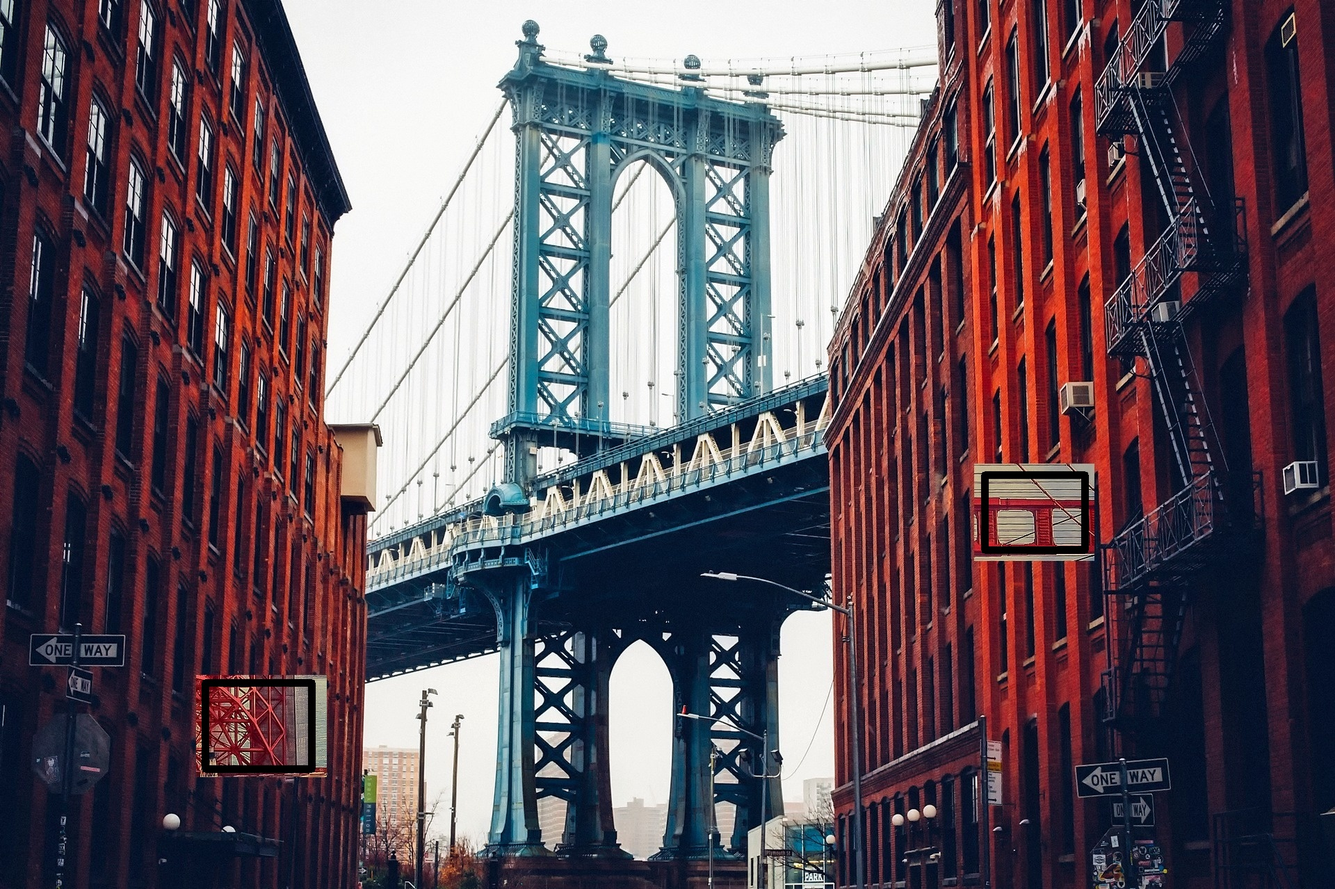
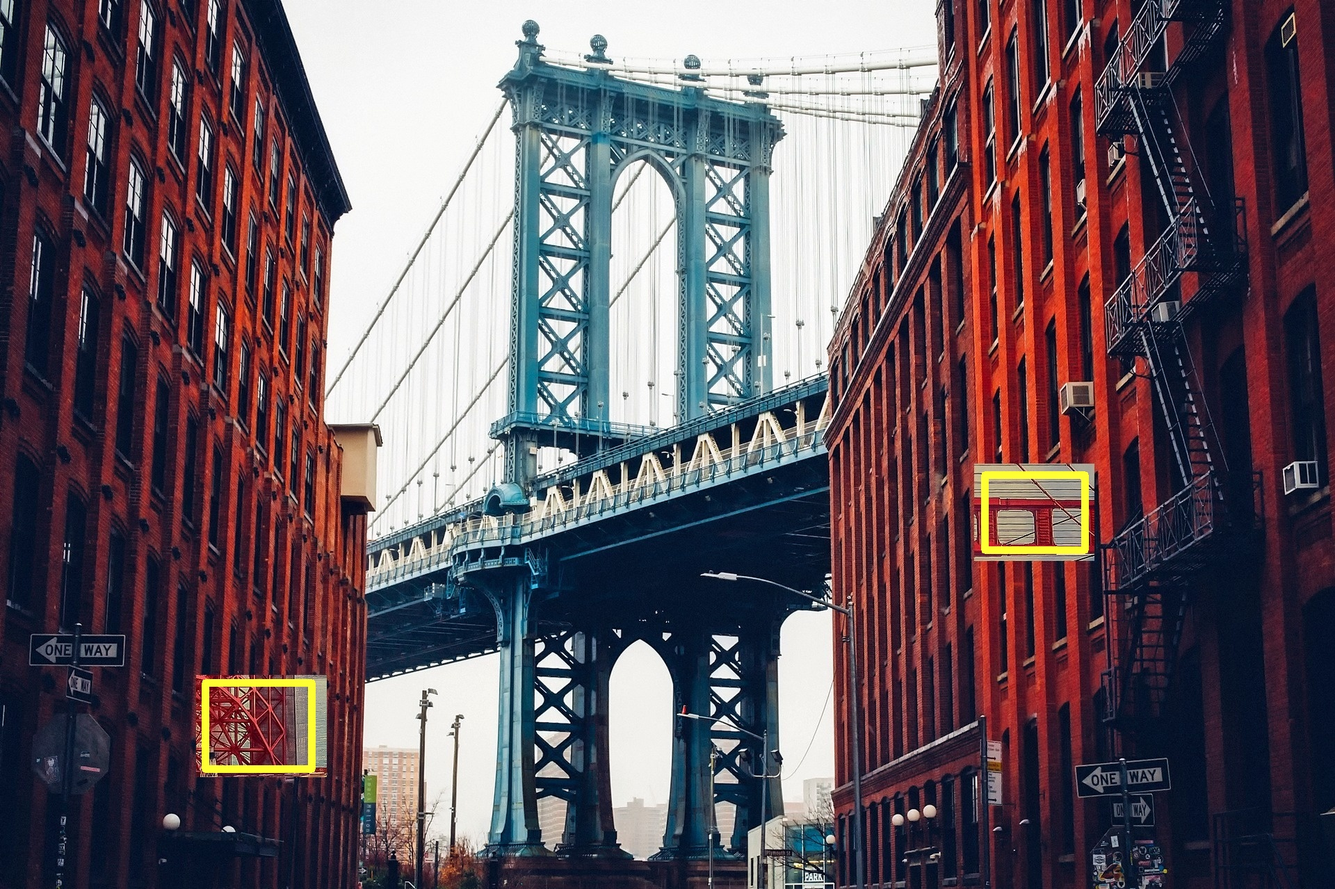
Fixed bug in Box class

Changed region(s): [[0.7188, 0.5184, 0.8438, 0.6403], [0.125, 0.7623, 0.25, 0.8843]]

diff --git a/surf.py b/surf.py
@@ -47,7 +47,7 @@ class SimilarityDetector:
         return good_matches
 
     def findSimilarities(self,a_imgPath1, a_imgPath2, a_outPathMatches,a_outPathOriginal,
-                         a_outPathNew, a_minHessian = 400, a_ratioThresh = 0.2):
+                         a_outPathNew, a_minHessian = 200, a_ratioThresh = 0.6):
         """
         Function using feature detection to find similarities between images
         :param a_imgPath1: path to first image
@@ -95,9 +95,9 @@ class SimilarityDetector:
         # matchTrain = cv.drawKeypoints(img2,kp2Matched,None,(255,0,0),4)
 
         # Draw boxes around key matches
-        bd = BoxDrawer(kp1Matched,30,img1,(0,0,0),10)
+        bd = BoxDrawer(kp1Matched,30,img1,(51,255,255),2)
         img1 = bd.img
-        bd = BoxDrawer(kp2Matched,30,img2,(0,0,0),10)
+        bd = BoxDrawer(kp2Matched,30,img2,(51,255,255),2)
         img2 = bd.img
 
         # write out images
@@ -108,14 +108,27 @@ class SimilarityDetector:
 
 if __name__ == "__main__":
 
-    # Paths for images to be compared
-    imgPath1 = "images/original_golden_bridge.jpg"
-    imgPath2 = "images/copy_paste.jpg"
+    # # Paths for images to be compared
+    # imgPath1 = "images/test_images/cells2.2.png"
+    # imgPath2 = "images/test_images/cells2.1.png"
+    #
+    # # outputPaths
+    # outPathMatches = 'images/cell_mapped_jt.jpg'
+    # outPathOriginal = 'images/cell_original_jt.jpg'
+    # outPathNew = 'images/cell_new_jt.jpg'
 
-    #outputPaths
-    outPathMatches = 'images/mappedMatches.jpg'
-    outPathOriginal = 'images/matchesOnOriginal.jpg'
-    outPathNew = 'images/matchesOnNew.jpg'
+    # # Paths for images to be compared
+    # imgPath1 = "images/another_cell_jt.png"
+    # imgPath2 = "images/another_cell_2_jt.png"
+
+    # Paths for images to be compared
+    imgPath1 = "images/third_jt.png"
+    imgPath2 = "images/fourth_jt.png"
+
+    # outputPaths
+    outPathMatches = 'images/cell_mapped_3_jt.jpg'
+    outPathOriginal = 'images/cell_original_3_jt.jpg'
+    outPathNew = 'images/cell_new_3_jt.jpg'
 
     # Create instance of class
     simDet = SimilarityDetector()

diff --git a/boxDrawer.py b/boxDrawer.py
@@ -55,11 +55,11 @@ class BoxDrawer:
         toApp = []
         srtd = sorted(arr, key=lambda x: x[indToSort])
         for i in range(1,len(srtd)):
+            toApp.append(srtd[i-1])
             if srtd[i][indToSort] - srtd[i-1][indToSort] > self.winSize:
                 points.append(toApp)
                 toApp = []
-            else:
-                toApp.append(srtd[i-1])
+
         toApp.append(srtd[-1])
         points.append(toApp)
 
@@ -72,14 +72,19 @@ class BoxDrawer:
         :return: None, updated image is stored in self.img
         """
         p = self.findBoxes()
-        print(len(p))
         for points in p:
             xSorted = sorted(points, key=lambda x: x[0])
             ySorted = sorted(points, key=lambda x: x[1])
-            x0 = xSorted[0][0]
-            x1 = xSorted[-1][0]
-            y0 = ySorted[0][1]
-            y1 = ySorted[-1][1]
+            add = 5
+            if len(xSorted)==0:continue
+            # if len(xSorted) == 1:
+            #     if len(xSorted[0])==0: continue
+            #     add = 5
+
+            x0 = xSorted[0][0] - add
+            x1 = xSorted[-1][0] + add
+            y0 = ySorted[0][1] - add
+            y1 = ySorted[-1][1] + add
             cv.line(self.img, (int(x0), int(y0)), (int(x0), int(y1)), self.color,self.lineWidth)
             cv.line(self.img, (int(x1), int(y0)), (int(x1), int(y1)), self.color,self.lineWidth)
             cv.line(self.img, (int(x0), int(y0)), (int(x1), int(y0)), self.color,self.lineWidth)
